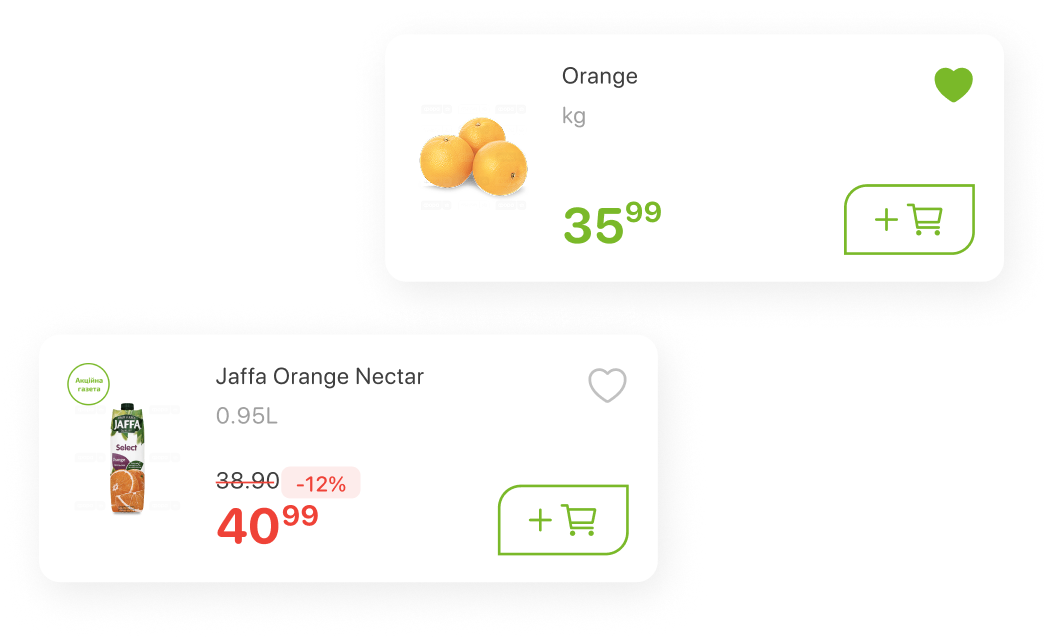
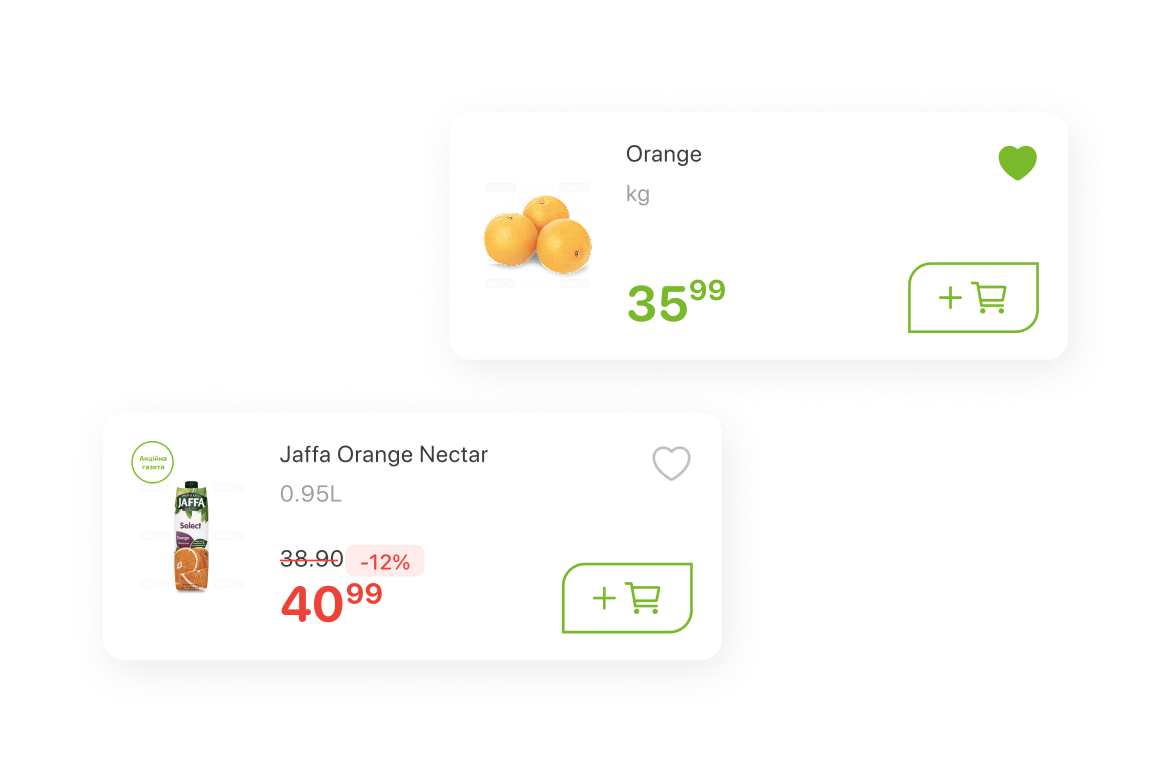
design system section edits

diff --git a/tasks/logs.md b/tasks/logs.md
@@ -876,3 +876,13 @@
   Причина: на `127.0.0.1:4321` работал stale `astro dev` процесс, который отдавал `500` (`/fora` -> `TypeError`), тогда как свежий инстанс на другом порту рендерился корректно; после restart на том же `4321` ошибка исчезла.
   Файлы: `tasks/lessons.md`, `tasks/logs.md`.
   Проверки: `lsof -iTCP:4321` показал активный старый процесс; Playwright до restart: `/fora` с `Page Title: TypeError`; после `kill -TERM` + fresh `npm run dev -- --host 127.0.0.1 --port 4321` Playwright на `/fora` и `browser_console_messages(level:error)` — без ошибок, `Page Title: Fora supermarket app redesign - Vlad Horovyy`.
+
+- 2026-03-17: Обновлены runtime PNG ассеты секции `design system` для `/fora` из новых исходников в `assets/images/fora`.
+  Причина: старый экспорт PNG имел некорректный масштаб из-за деформированных теней; пользователь пересохранил исходники.
+  Файлы: `public/media/cases/fora/design-system/design-system-image-summary.png`, `public/media/cases/fora/design-system/design-system-image-horizontal-cards.png`, `public/media/cases/fora/design-system/design-system-image-vertical-cards.png`, `public/media/cases/fora/design-system/design-system-image-sheet.png`, `tasks/lessons.md`, `tasks/logs.md`.
+  Проверки: размеры runtime-файлов после замены соответствуют новым исходникам (`681x861`, `1170x774`, `930x849`, `792x879`); `npm run build` — успешно.
+
+- 2026-03-17: Актуализированы размеры и позиции PNG-ассетов `design system` под текущую Figma-ноду `49:2438`.
+  Причина: после реэкспорта PNG изменились их bounding-box, а в коде оставались старые координаты/габариты, из-за чего визуал не совпадал с дизайном.
+  Файлы: `src/components/ForaDesignSystemSection.astro`, `tasks/logs.md`.
+  Проверки: `npm run build` — успешно; в компоненте синхронизированы значения из Figma (`summary: x0 y-11 w227 h287`, `horizontal: x460 y23 w390 h258`, `vertical: x93 y401 w310 h283`, `sheet: x426 y535 w264 h293`).

diff --git a/tasks/lessons.md b/tasks/lessons.md
@@ -63,3 +63,4 @@
 - При повторных коррекциях `kissa` сначала обновлять только raw `targetX/targetY/width/height` из Figma, а runtime-логику нормализации не трогать (она должна оставаться единственным местом компенсации).
 - Для ровной scallop-обводки в `CaseCard` использовать `QuantizedPerimeter outlineMode='geometric'` + `outlinePlacement='outside'`: внешний контур строится как doubled-stroke с inverse SVG-mask; `alpha`-outline оставлять fallback для неподдержанных паттернов/форм.
 - Для `Badge` (`.case-badge`) держать фиксированную высоту `22px` через `height` + `box-sizing: border-box`; визуальную Y-компенсацию задавать `padding-top: 1px`, `padding-bottom: 0`.
+- Для PNG-ассетов из Figma с тенями перед импортом в runtime проверять, что экспорт не деформирует визуальный масштаб (частая причина — некорректный bounds/обрезка при сохранении); после реэкспорта обновлять только runtime-копии в `public/media/...`, не подключая `assets/` напрямую.
